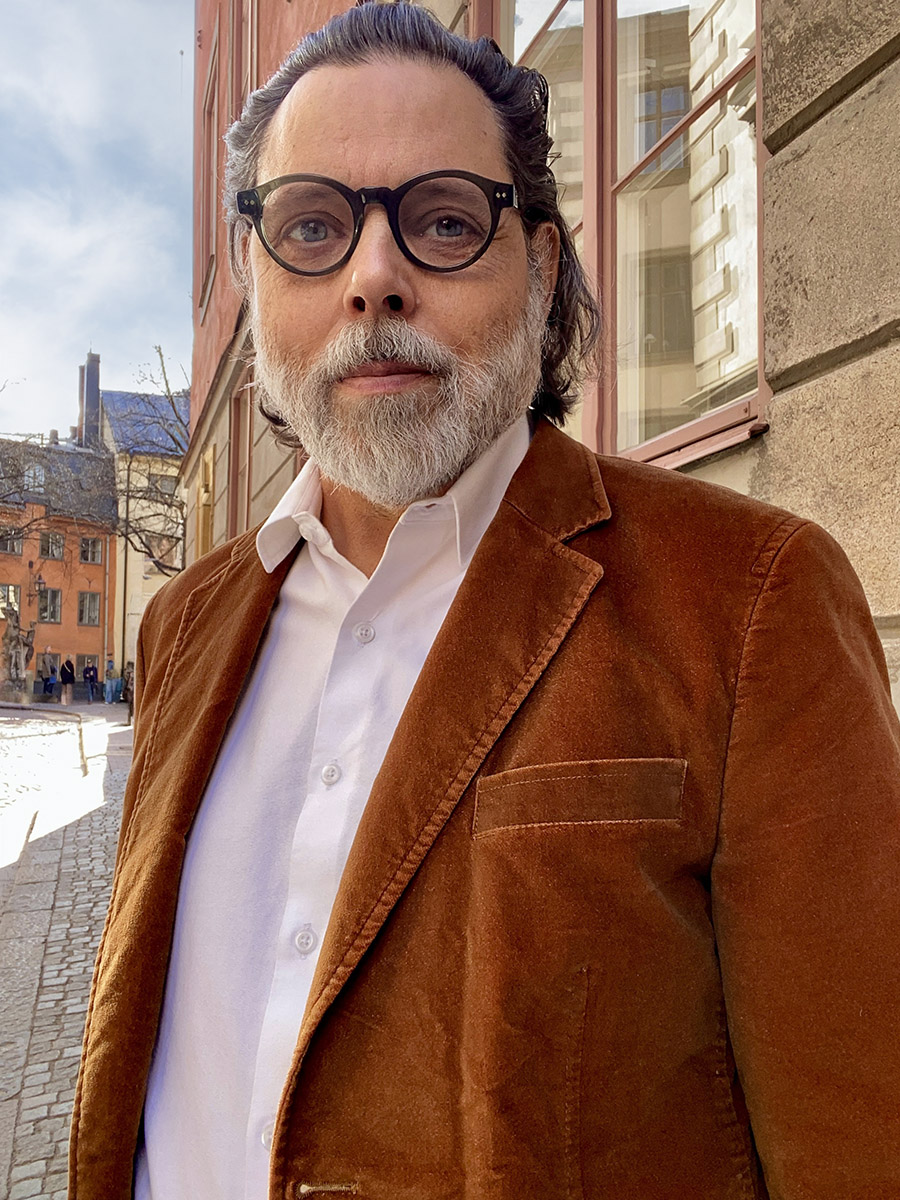
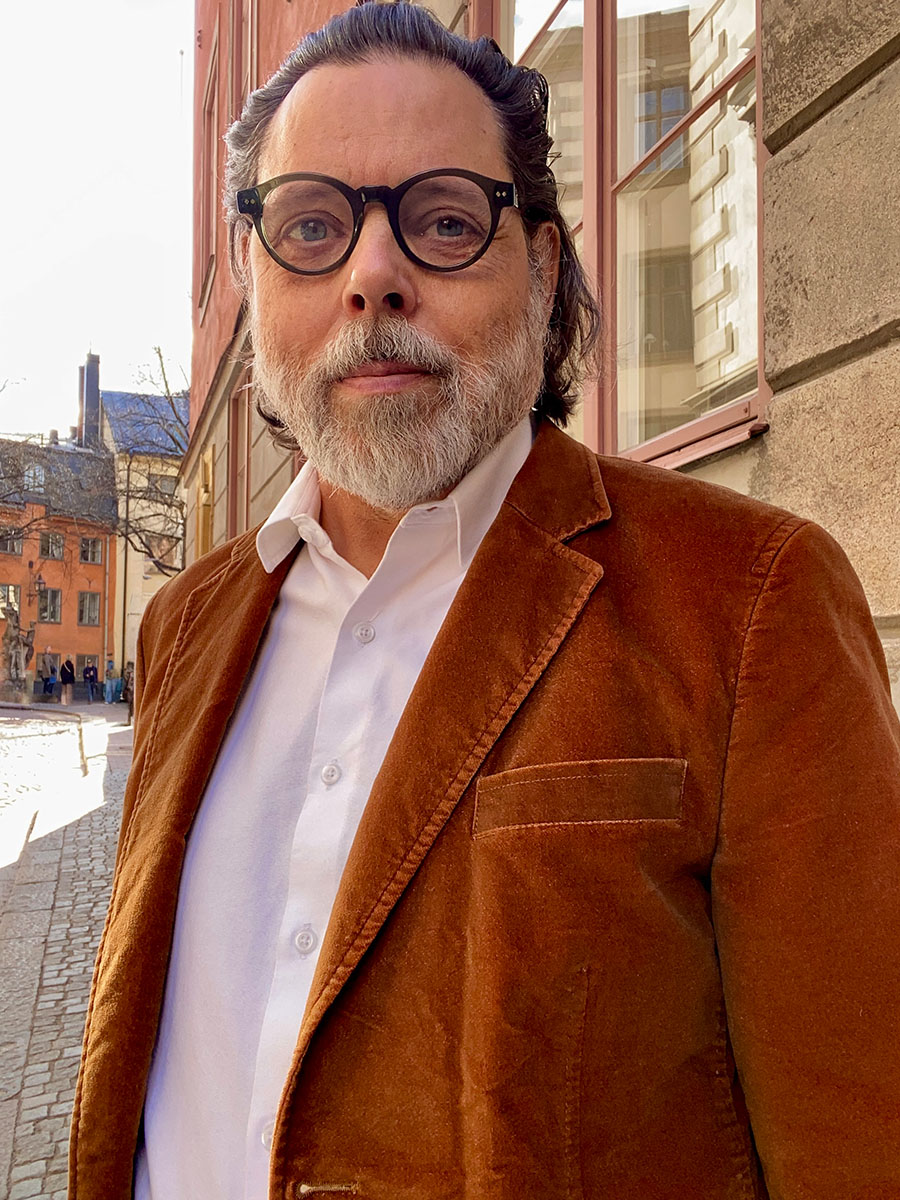
Ändrade porträttbild och lite i koden

diff --git a/index.html b/index.html
@@ -650,7 +650,7 @@
 
         <section class="about" id="about">
             <div class="about-image" id="about-img-container">
-                <img src="bilder/portratt.jpg" alt="Porträtt" onerror="this.style.display='none'; this.parentElement.innerHTML='Din bild här';">
+                <img src="bilder/portratt.jpg?v=2" alt="Porträtt" onerror="this.style.display='none'; this.parentElement.innerHTML='Din bild här';">
             </div>
             <div class="about-text fade-in">
                 <h2>Om mig</h2>
